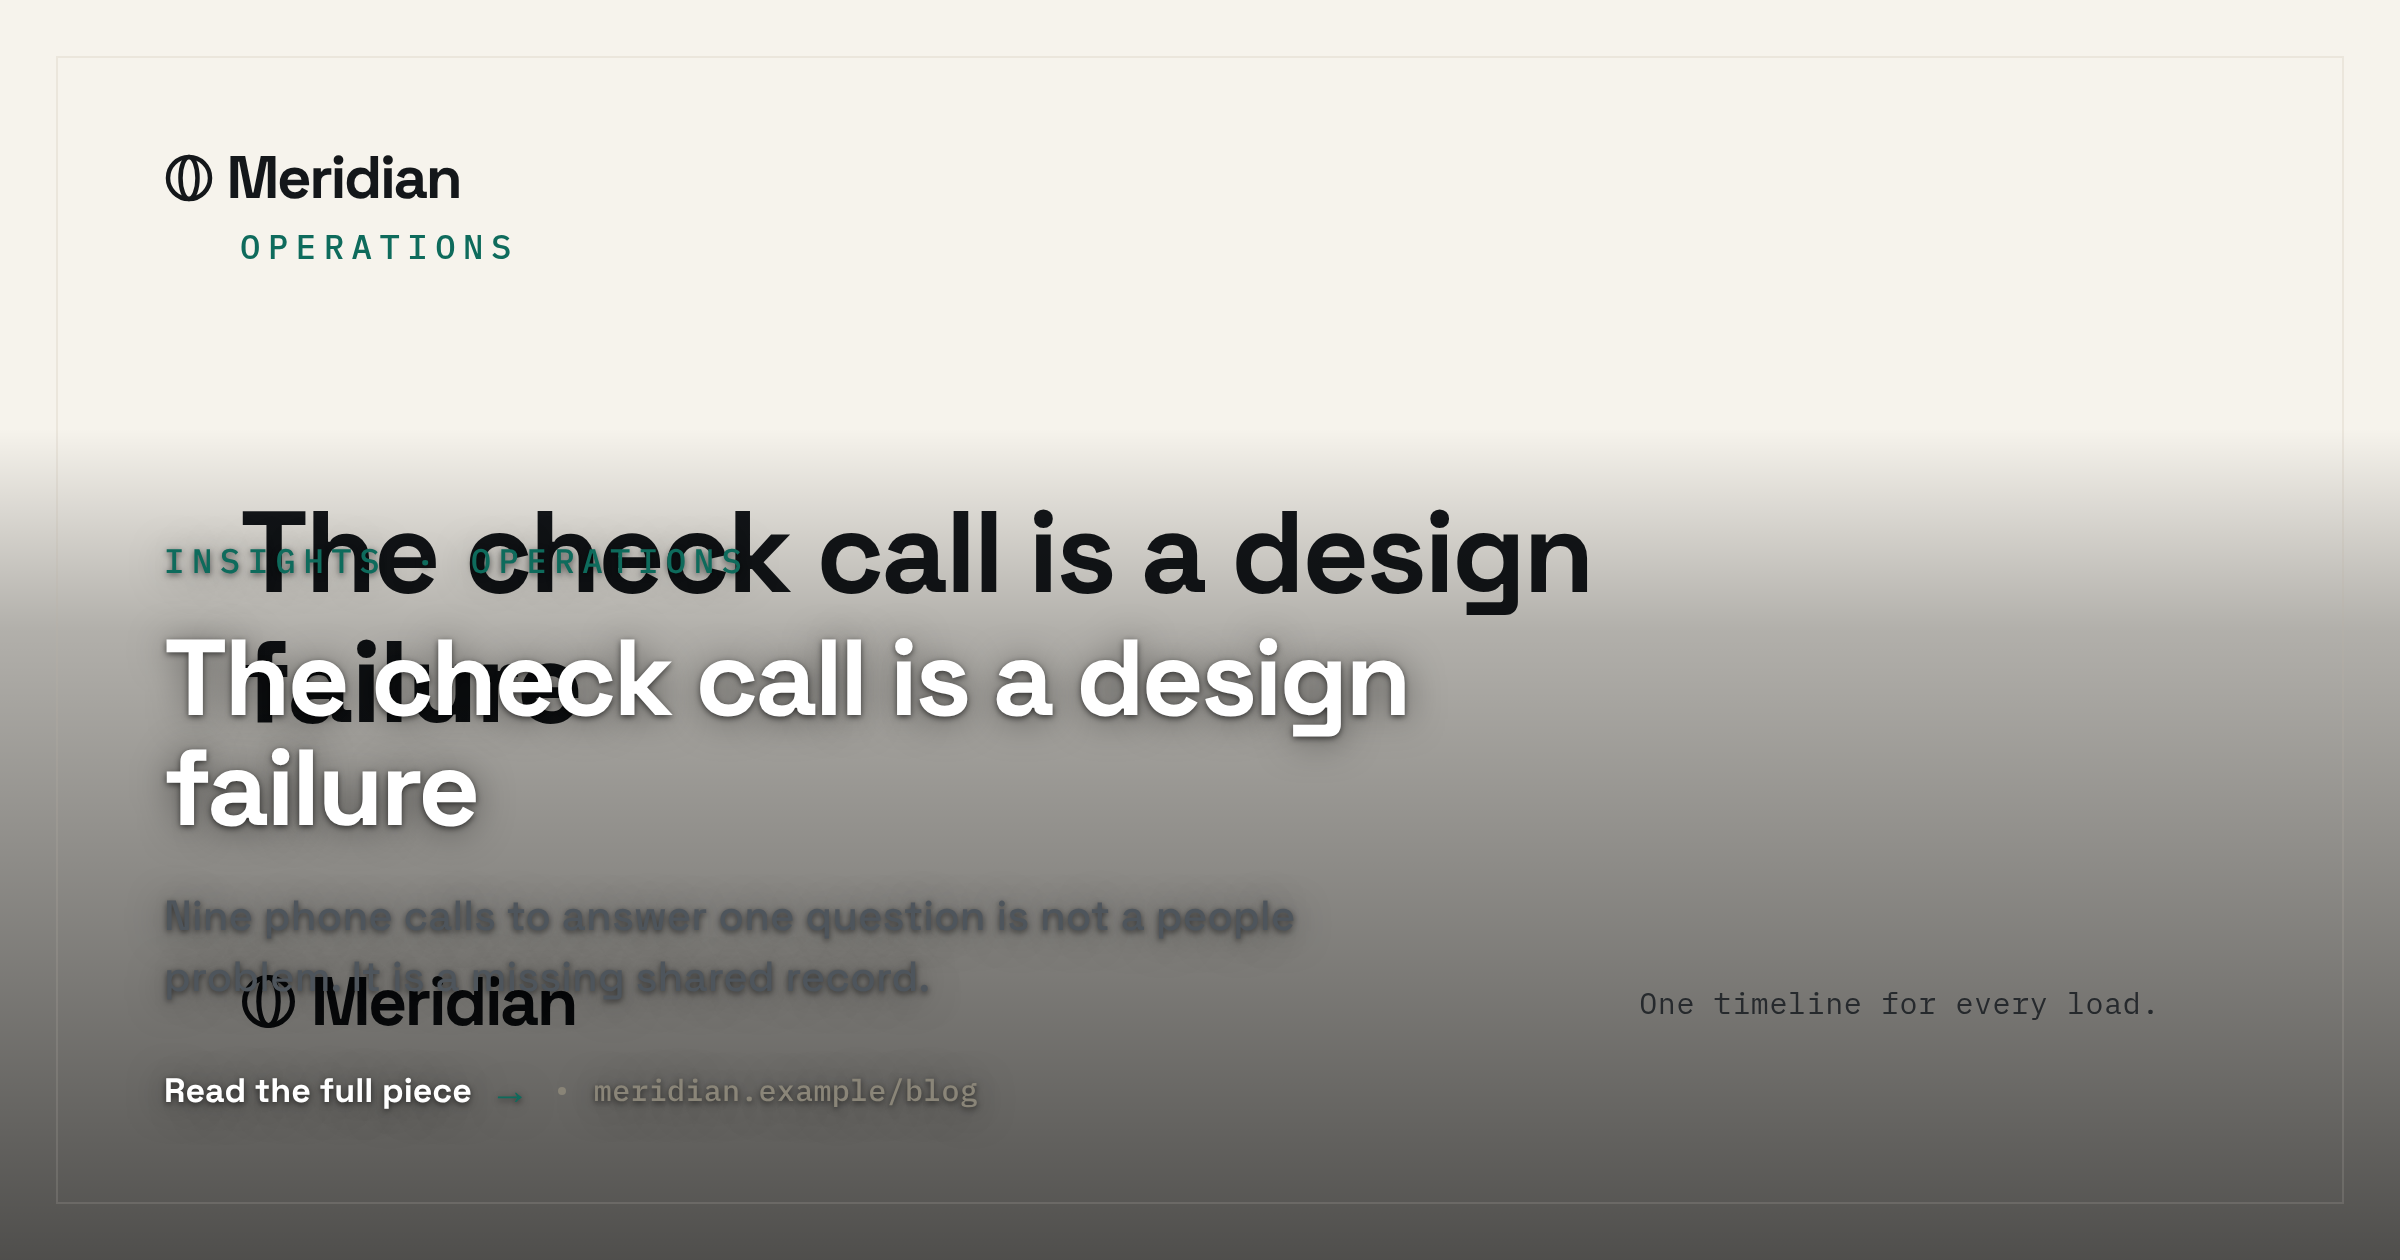
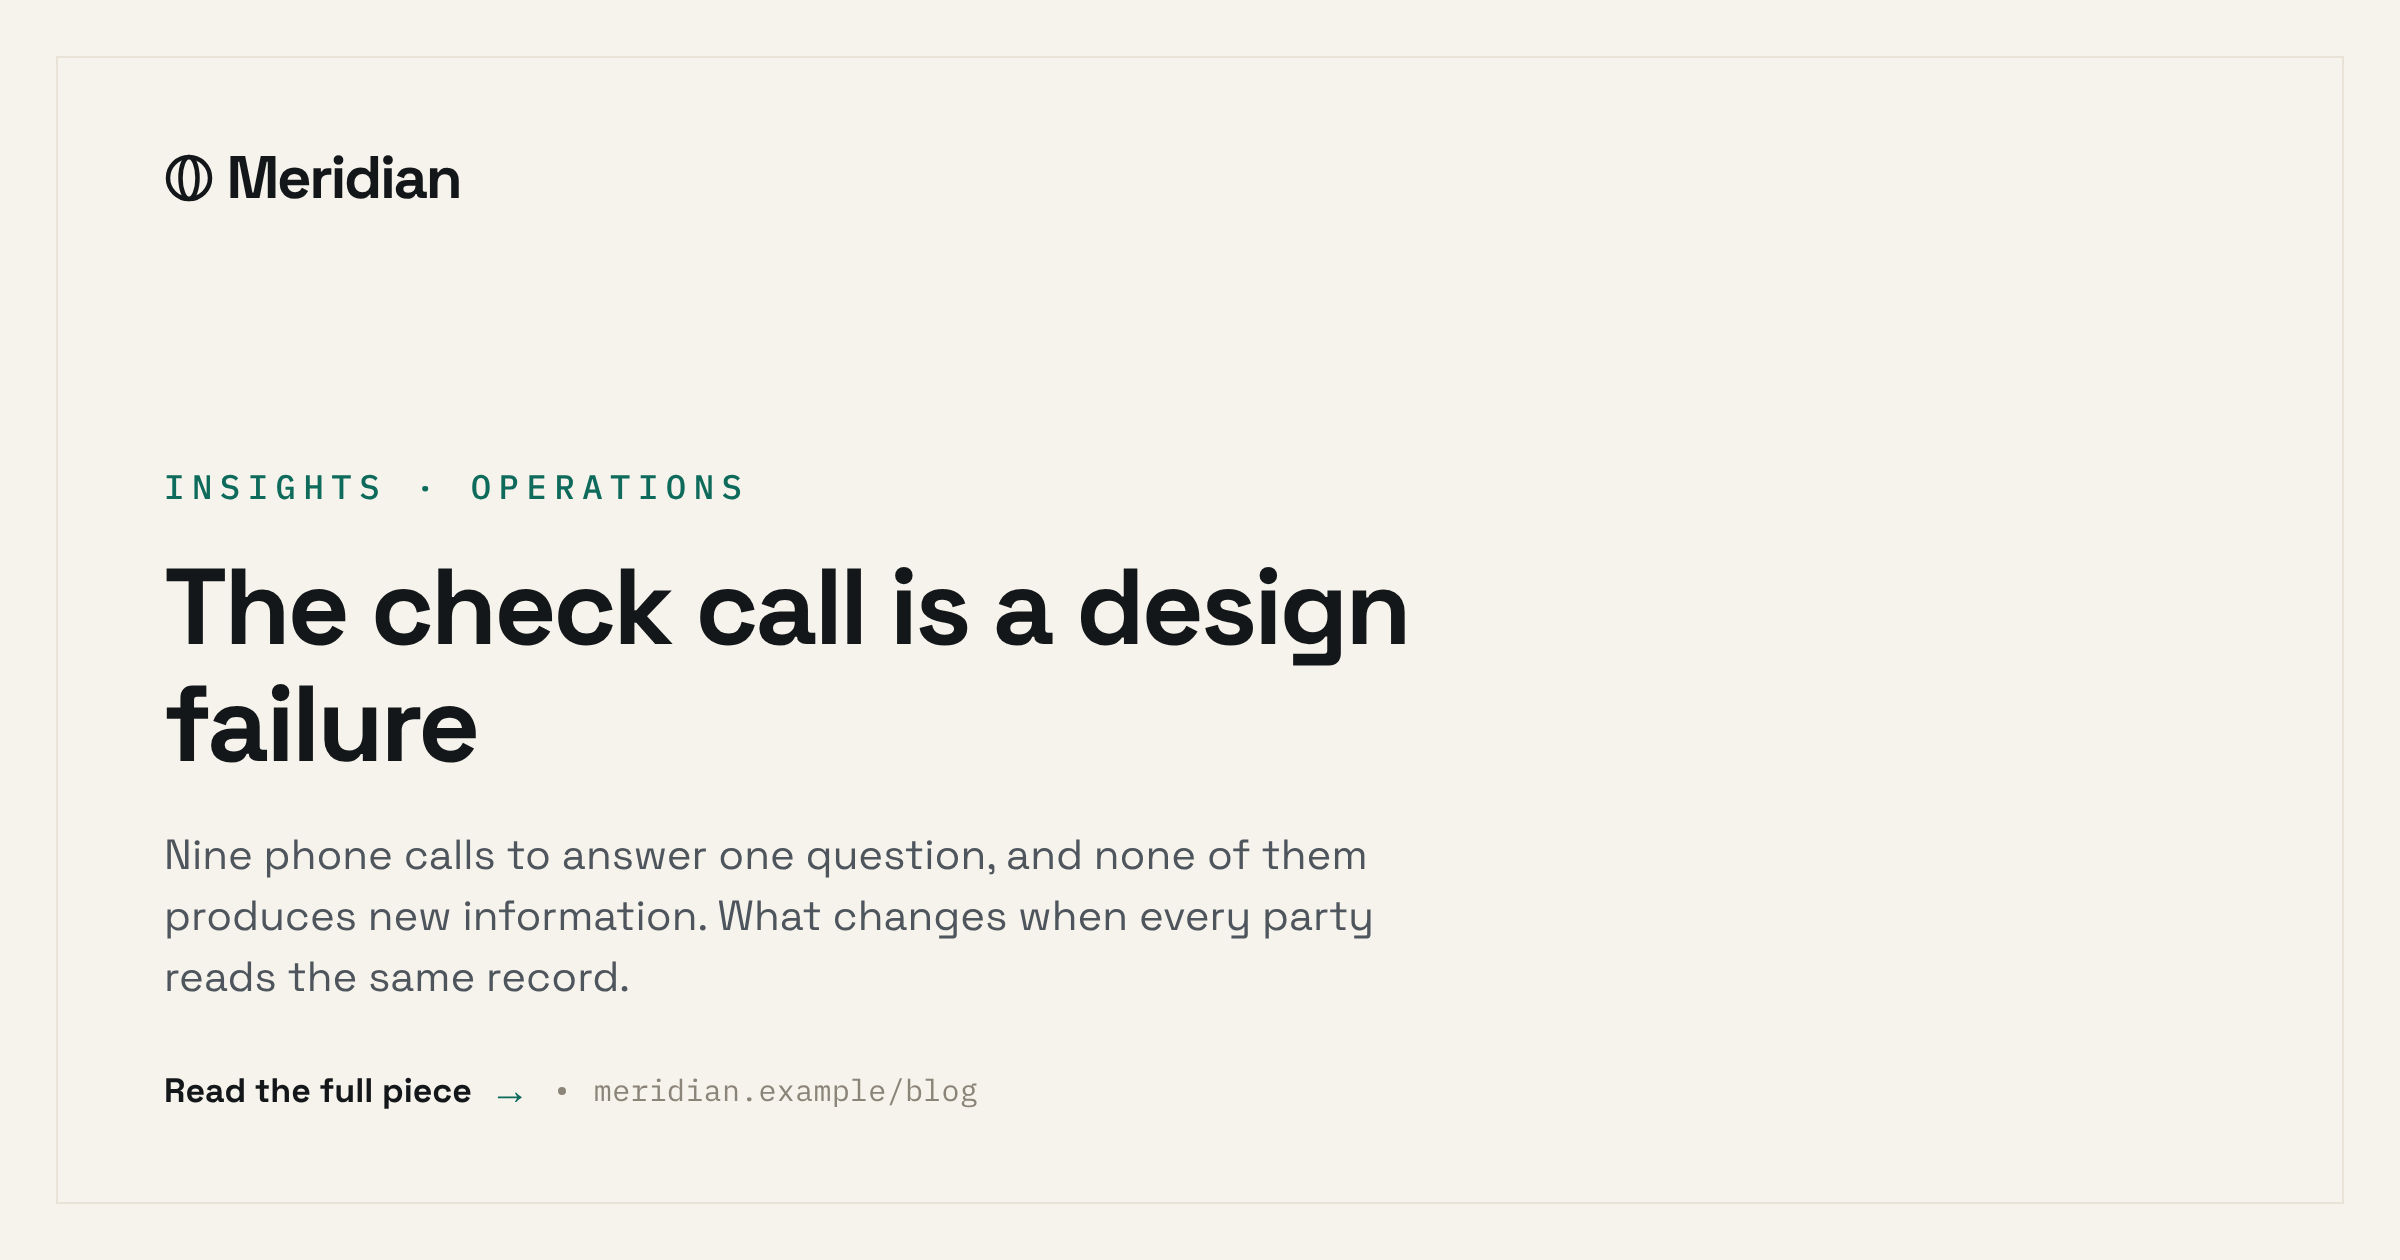
fix(content): give the share card a no-photo mode, and drop a banned antithesis pair
The share card was designed around a photo hero: white type on a scrim. With
no heroImage it fell back to the generated hero card, so the title rendered
twice and the white type sat on a light ground, unreadable.

It now has two modes — .plain (a standalone branded card, the default) and
.photo (image fill + scrim + white type) — chosen by build.py from the
frontmatter.

Also rewrote the starter essay's deck line and one body paragraph: both used
the 'not X, but Y' antithesis pair that docs/writing-rules.md bans.

diff --git a/content/src/_linkedin.html b/content/src/_linkedin.html
@@ -5,22 +5,45 @@
     <style>
       /* The brand kit is inlined by build.py so this card renders standalone. */
       %%STYLES%%
-      html, body { background: var(--bg); }
+
+      /* ---------------------------------------------------------------------
+         The social share card — the image you upload in place of the platform's
+         automatic link preview.
+
+         Two modes, set by build.py from the frontmatter:
+
+           .plain  no heroImage — a standalone branded card on the brand ground.
+                   This is the default, and it is always legible.
+           .photo  heroImage supplied — the image fills the card, a neutral
+                   gradient carries the copy, and the type goes white.
+
+         The modes exist because overlaying this copy on the generated hero card
+         renders the title twice. If you set a heroImage, use a real photo or
+         illustration, never another card.
+      --------------------------------------------------------------------- */
+      html,
+      body {
+        background: var(--bg);
+      }
       .card {
         position: relative;
         width: 1200px;
         height: 630px;
         overflow: hidden;
-        background: var(--bg) url("%%HERO_SRC%%") center / cover no-repeat;
+        background: var(--bg);
         font-family: var(--sans);
-        font-weight: 500;
         -webkit-font-smoothing: antialiased;
         text-rendering: geometricPrecision;
       }
-      /* Neutral bottom backdrop so the copy reads over busy imagery — dark, not
-         blue, so it looks like a soft shadow rather than a wash over the hero. */
+      .card.photo {
+        background: var(--bg) url("%%HERO_SRC%%") center / cover no-repeat;
+      }
+
+      /* Photo mode only: a neutral, non-tinted backdrop under the copy. */
       .scrim {
-        position: absolute; inset: 0;
+        display: none;
+        position: absolute;
+        inset: 0;
         background: linear-gradient(
           180deg,
           transparent 34%,
@@ -28,60 +51,117 @@
           rgba(0, 0, 0, 0.68) 100%
         );
       }
+      .card.photo .scrim {
+        display: block;
+      }
+
       .frame {
-        position: absolute; inset: 28px;
-        border: 1px solid rgba(255, 255, 255, 0.14);
+        position: absolute;
+        inset: 28px;
+        border: 1px solid var(--line-soft);
         pointer-events: none;
       }
-      .inner {
-        position: absolute; inset: 28px;
-        padding: 46px 54px;
-        display: flex; flex-direction: column; justify-content: space-between;
+      .card.photo .frame {
+        border-color: rgba(255, 255, 255, 0.14);
       }
-      .logo-lockup { font-size: 30px; align-self: flex-start; color: var(--fg); }
-      /* No scrim: keep the hero image clean; a soft text shadow carries legibility. */
-      .foot {
-        display: flex; flex-direction: column;
+
+      .inner {
+        position: absolute;
+        inset: 28px;
+        padding: 46px 54px;
+        display: flex;
+        flex-direction: column;
+        justify-content: space-between;
+        color: var(--fg);
+      }
+      .card.photo .inner {
+        color: #fff;
         text-shadow: 0 1px 3px rgba(0, 0, 0, 0.6), 0 2px 18px rgba(0, 0, 0, 0.5);
+      }
+
+      .logo-lockup {
+        font-size: 30px;
+        align-self: flex-start;
+        color: currentColor;
+      }
+
+      .foot {
+        display: flex;
+        flex-direction: column;
       }
       .eyebrow {
         font-family: var(--mono);
-        font-size: 17px; font-weight: 500;
-        letter-spacing: 0.22em; text-transform: uppercase;
+        font-size: 17px;
+        font-weight: 500;
+        letter-spacing: 0.22em;
+        text-transform: uppercase;
         color: var(--accent);
         margin-bottom: 20px;
       }
+      .card.photo .eyebrow {
+        color: #fff;
+      }
       .title {
         font-family: var(--sans);
-        font-weight: 900;
-        font-size: 54px; line-height: 1.02; letter-spacing: -0.03em;
-        color: #fff;
+        font-weight: 700;
+        font-size: 54px;
+        line-height: 1.08;
+        letter-spacing: -0.03em;
+        color: currentColor;
         max-width: 20ch;
       }
       .desc {
         margin-top: 22px;
-        font-size: 21px; font-weight: 500; line-height: 1.45;
+        font-size: 21px;
+        font-weight: 400;
+        line-height: 1.45;
         color: var(--muted);
         max-width: 46ch;
       }
+      .card.photo .desc {
+        color: rgba(255, 255, 255, 0.88);
+      }
       .cta {
         margin-top: 30px;
-        display: flex; align-items: center; gap: 14px;
+        display: flex;
+        align-items: center;
+        gap: 14px;
       }
       .cta .read {
-        display: inline-flex; align-items: center; gap: 9px;
-        font-size: 17px; font-weight: 700; color: #fff;
+        display: inline-flex;
+        align-items: center;
+        gap: 9px;
+        font-size: 17px;
+        font-weight: 700;
+        color: currentColor;
       }
-      .cta .read .arrow { color: var(--accent); font-size: 20px; line-height: 1; }
-      .cta .dot { width: 4px; height: 4px; border-radius: 50%; background: var(--faint); }
+      .cta .read .arrow {
+        color: var(--accent);
+        font-size: 20px;
+        line-height: 1;
+      }
+      .card.photo .cta .read .arrow {
+        color: #fff;
+      }
+      .cta .dot {
+        width: 4px;
+        height: 4px;
+        border-radius: 50%;
+        background: var(--faint);
+      }
       .cta .url {
-        font-family: var(--mono); font-size: 15px; letter-spacing: 0.01em;
+        font-family: var(--mono);
+        font-size: 15px;
+        letter-spacing: 0.01em;
         color: var(--faint);
+      }
+      .card.photo .cta .url {
+        color: rgba(255, 255, 255, 0.78);
       }
     </style>
   </head>
   <body>
-    <div class="card">
+    <div class="card %%MODE%%">
       <div class="scrim"></div>
       <div class="frame"></div>
       <div class="inner">

diff --git a/content/output/essays/_template/starter-essay.html b/content/output/essays/_template/starter-essay.html
@@ -754,9 +754,9 @@ dispatcher&rsquo;s notepad, and a spreadsheet somebody updated this morning.</p>
 <p>Nobody chose to run freight on phone calls. It accumulated, one workaround at
 a time, and then it was the system.</p>
 </blockquote>
-<p>The calls are not the problem. The calls are what people do when there is no
-shared record, and they will keep doing them for exactly as long as that is
-true.</p>
+<p>Dispatchers make those calls because there is no shared record, and they will
+keep making them for exactly as long as that stays true. Nine calls is what
+reconstructing a known fact costs, repeated all day.</p>
 <h2 id="what-a-shared-record-changes">What a shared record changes</h2>
 <p>When the carrier marks a stop and the shipper sees it without anyone placing a
 call, the coordination work does not get faster. It stops existing.</p>

diff --git a/content/build.py b/content/build.py
@@ -145,6 +145,7 @@ li_hero = os.path.basename(str(hero_custom)) if hero_custom else f"{slug}.hero.p
 li = open(os.path.join(here, "src", "_linkedin.html"), encoding="utf-8").read()
 for k, v in {
     "STYLES": brand_css,
+    "MODE": "photo" if hero_custom else "plain",
     "HERO_SRC": esc(li_hero),
     "SECTION": esc(brand.get("sectionLabel", "Insights")),
     "EYEBROW": esc(f"{brand.get('sectionLabel', 'Insights')} · {eyebrow}" if eyebrow else brand.get("sectionLabel", "Insights")),

diff --git a/content/src/essays/_template/starter-essay.md b/content/src/essays/_template/starter-essay.md
@@ -3,7 +3,7 @@ title: The check call is a design failure
 slug: starter-essay
 kind: article
 eyebrow: Operations
-deck: Nine phone calls to answer one question is not a people problem. It is a missing shared record.
+deck: Nine phone calls to answer one question, and none of them produces new information. What changes when every party reads the same record.
 description: Why freight coordination degrades into phone calls, and what changes when every party reads the same timeline.
 author: Sam Okonjo
 role: Co-Founder
@@ -33,9 +33,9 @@ dispatcher's notepad, and a spreadsheet somebody updated this morning.
 > Nobody chose to run freight on phone calls. It accumulated, one workaround at
 > a time, and then it was the system.
 
-The calls are not the problem. The calls are what people do when there is no
-shared record, and they will keep doing them for exactly as long as that is
-true.
+Dispatchers make those calls because there is no shared record, and they will
+keep making them for exactly as long as that stays true. Nine calls is what
+reconstructing a known fact costs, repeated all day.
 
 ## What a shared record changes
 
